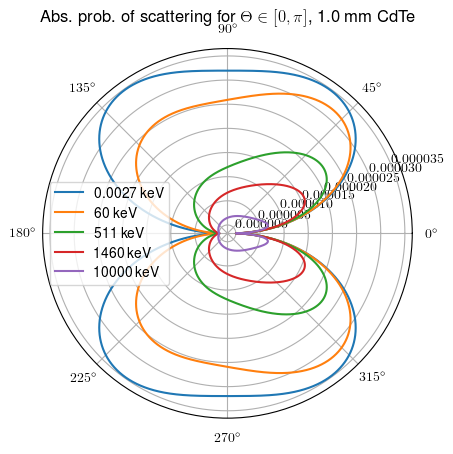
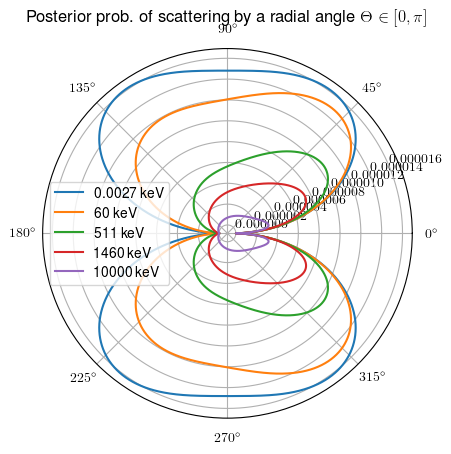
moer probabilities

diff --git a/thesis/main.tex b/thesis/main.tex
@@ -141,15 +141,15 @@ The differential of the impact cross section is
 \end{equation}
 
 \begin{equation}
-  \Omega\left(r, \Theta\right) = \int_0^\Theta 2\pi r\,cos\left(\theta\right)\,r\,d\theta = \left[-2\pi r^2\,sin\left(\theta\right)\right]_0^\Theta = 2\pi r^2 - 2\pi r^2cos\left(\Theta\right)
+  \Omega\left(r, \Theta\right) = \int_0^\Theta 2\pi r\,\cos\theta\,r\,d\theta = \left[-2\pi r^2\,\sin\theta\right]_0^\Theta = 2\pi r^2 - 2\pi r^2\cos\Theta
 \end{equation}
 The differential of the area is
 \begin{equation}
-  d\Omega\left(\theta\right) = \frac{\partial \Omega}{\partial r}\,dr + \frac{\partial \Omega}{\partial \theta}\,d\theta = -4\pi r\,cos\left(\theta\right)dr + 4\pi r\,dr + 2\pi r^2sin\left(\theta\right)d\theta
+  d\Omega\left(\theta\right) = \frac{\partial \Omega}{\partial r}\,dr + \frac{\partial \Omega}{\partial \theta}\,d\theta = -4\pi r\,\cos\theta\,dr + 4\pi r\,dr + 2\pi r^2\sin\theta\,d\theta
 \end{equation}
 In the case of a unit sphere, the differential of the area becomes
 \begin{equation}
-  d\Omega(\theta) = 2\pi r^2sin\left(\theta\right)d\theta.
+  d\Omega(\theta) = 2\pi r^2\sin\theta\,d\theta.
 \end{equation}
 
 \begin{figure}[ht]
@@ -172,38 +172,65 @@ In the case of a unit sphere, the differential of the area becomes
 
 %%}
 
-The ratio of the energy of incoming ($E_{0}$) and scattered ($E_{s}$) particles was observed and described by Compton as
+The ratio $E_r$ of the energy of incoming ($E_{0}$) and scattered ($E_{s}$) particles was observed and described by Compton as
 \begin{equation}
-  P\left(\theta\right) = \frac{E_{s}\left(\theta\right)}{E_{0}} = \frac{1}{1 + \frac{E_0}{m_ec^2}\left(1 - cos\left(\theta\right)\right)},
+  E_r\left(\theta, E_0\right) = \frac{E_s\left(\theta, E_0\right)}{E_{0}} = \frac{1}{1 + \frac{E_0}{m_ec^2}\left(1 - \cos\theta\right)},
 \end{equation}
-where $\theta \in \left[0, \pi\right]$ is the radial angle at which the photons are scattered, $E_0, E_s$ $\left[\mathrm{J}\right]$ are the energies of the incoming and scattered photons, \unit{m_e \approx 9.10 \times 10^{-31}}{kg} is the invariant mass of the electron, \unit{c \approx 2.99 \times 10^{8}}{ms^{-1}} is the speed of light in vacuum.
+where $\theta \in \left[-\pi, \pi\right)$ is the radial angle at which the photons are scattered, $E_0, E_s$ $\left[\mathrm{J}\right]$ are the energies of the incoming and scattered photons, \unit{m_e \approx 9.10 \times 10^{-31}}{kg} is the invariant mass of the electron, \unit{c \approx 2.99 \times 10^{8}}{ms^{-1}} is the speed of light in vacuum.
 
 The Klein-Nishina formula \cite{leo2012techniques} describes the differential cross section of the incident and scattered beam as
 \begin{equation}
-  \frac{d\sigma}{d\Omega}\left(\theta\right) = \frac{1}{2}\,r_{e}^2\,P\left(\theta\right)^2\left(P\left(\theta\right) + \frac{1}{P\left(\theta\right)} - sin\left(\theta\right)^2\right),
+  \frac{d\sigma}{d\Omega}\left(\theta\right) = \frac{1}{2}\,r_{e}^2\,E_r\left(\theta\right)^2\left(E_r\left(\theta\right) + \frac{1}{E_r\left(\theta\right)} - \sin^2\theta\right),
 \end{equation}
 where \unit{r_e \approx 2.81 \times 10^{-15}}{m} is the classical electron radius.
-The intensity of the scattered beam \unit{N_s}{\left[s^{-1}\right]} is calculated for the finite area \unit{\Delta \theta}{\left[sr\right]} as
+
+% The intensity of the scattered beam \unit{N_s}{\left[s^{-1}\right]} is calculated for a small finite solid angle \unit{\Delta \theta}{\left[sr\right]} as
+% \begin{equation}
+%   N_s = N_o\,\frac{d\sigma}{d\Omega}\left(\theta\right)\,n_e\,t\,\Delta\theta,
+% \end{equation}
+% where \unit{N_0}{\left[s^{-1}\right]} is the intensity of the incoming beam, \unit{n_e}{\left[m^{-3}\right]} is the electron density of the scattering material and \unit{t}{\left[m\right]} is the effective thickness of the scattering material.
+
 \begin{equation}
-  N_s = N_o\,\frac{d\sigma}{d\Omega}\left(\theta\right)\,n_e\,T\,\Delta\Omega,
+  \sigma = \oint_{4\pi} \frac{d\sigma}{d\Omega}\,d\Omega = \int_0^{2\pi} \int_0^{\pi} \frac{d\sigma}{d\Omega}\sin\theta\,d\theta\,d\phi,
 \end{equation}
-where \unit{N_0}{\left[s^{-1}\right]} is the intensity of the incoming beam, \unit{n_e}{\left[m^{-3}\right]} is the electron density of the scattering material and \unit{T}{\left[m\right]} is the effective thickness of the scattering material.
+
+Photon attenuation, i.e., the decrease of the intensity $d\Phi$ of an incident beam with original flux $\Phi \left[\mathrm{s}^{-1}\right]$ is described as
+\begin{equation}
+  \frac{d\Phi}{dz} = -n\sigma\Phi
+\end{equation}
+where $dz$ is the thickness of the blocking material, \unit{n_e}{\left[m^{-3}\right]} is the electron density of the scattering material and $\sigma \left[\mathrm{m}^{2}\right]$ is the total cross section of the interaction.
+By solving the differential equation, we obtain a relationship between the initial flux $\Phi$ and the remaining flux $\Phi_{out}$ behind the object with the thickness $z$:
+\begin{equation}
+  \Phi_{out} = \Phi e^{-n\sigma z}.
+\end{equation}
+This the probability of a Compton scattering $\mathrm{P}\left(c\right)$ is modeled as
+\begin{equation}
+  \mathrm{P}\left(c\right) = 1 - e^{-n\sigma z}.
+\end{equation}
+
+\begin{equation}
+  \mathrm{P}\left(\theta \mid c\right) = \frac{\int_0^\pi \frac{d\sigma}{d\Omega}\,\sin \theta\,d\phi}{\sigma}
+\end{equation}
+
+\begin{equation}
+  \mathrm{P}\left(c \mid \theta\right) = \mathrm{P}\left(\theta \mid c\right) \mathrm{P}\left(c\right) = \left(1 - e^{-n\sigma z}\right) \frac{\int_0^\pi \frac{d\sigma}{d\Omega}\,\sin \theta\,d\phi}{\sigma}
+\end{equation}
 
 \begin{figure}[ht]
   \centering
   \begin{subfigure}{0.32\textwidth}
     \includegraphics[width=1.0\textwidth]{./fig/klein_nishina_1.png}
-    \caption{Plots of the differential cross section for various photon energy as a factor of the classical electron radius $r_e$.}
+    \caption{Plots of the differential $d\sigma/d\Omega$ cross section for various photon energies.}
     \label{fig:klein_1}
   \end{subfigure}
   \begin{subfigure}{0.32\textwidth}
     \includegraphics[width=1.0\textwidth]{./fig/klein_nishina_2.png}
-    \caption{Plots of absolute probability of scattering under radial angle $\theta$, integrated over azimuthal angle $\phi$.}
+    \caption{Plots of posterior probability $\mathrm{P}\left(E_0 \mid \theta\right)$, integrated over azimuthal angle $\phi$.}
     \label{fig:klein_2}
   \end{subfigure}
   \begin{subfigure}{0.32\textwidth}
     \includegraphics[width=1.0\textwidth]{./fig/klein_nishina_3.png}
-    \caption{Plots of marginalized probability of scattering under radial angle $\theta$, integrated over azimuthal angle $\phi$.}
+    \caption{Plots of likelihood probability $\mathrm{P}\left(\theta \mid E_0\right)$, integrated over azimuthal angle $\phi$.}
     \label{fig:klein_3}
   \end{subfigure}
   \caption{Plots of the Klein-Nishina differential cross section (\ref{fig:klein_1}), the cross section normalized by the total cross section (\ref{fig:klein_2}) and the resulting probability distribution (\ref{fig:klein_3}) invariant on the radial angle $\phi$.}

diff --git a/misc/klein_nishina/main.py b/misc/klein_nishina/main.py
@@ -182,7 +182,7 @@ for energy_idx,energy in enumerate(E_0):
 # convert to abs. prob
 for energy_idx,energy in enumerate(E_0):
 
-    total_prob = 1 - np.exp(-CdTe_e_density * total_cross_section[energy_idx] * thickness)
+    total_prob = 1 - np.exp(-Si_e_density * total_cross_section[energy_idx] * thickness)
     abs_prob[energy_idx] = [x*total_prob for x in sigma_normalized[energy_idx]]
 
 sigma_marginalized = [[x/total_cross_section[sublist_idx] for x in sublist] for sublist_idx,sublist in enumerate(sigma_normalized)]
@@ -202,39 +202,54 @@ for energy_idx,energy in enumerate(E_0):
 
 def plot_everything(*args):
 
+    multiplot = False
+
     fig = plt.figure(1)
     fig.canvas.set_window_title("1")
-    ax = plt.subplot(131, projection='polar')
+    if multiplot:
+        ax = plt.subplot(131, projection='polar')
+    else:
+        ax = plt.subplot(111, projection='polar')
     for energy_idx,energy in enumerate(E_0):
       ax.plot(angles, klein_nishina[energy_idx], label="{} keV".format(E_0_keV[energy_idx]))
     ax.legend()
     ax.grid(True)
     plt.title("Compton scattering diff. cross section for $\Theta \in [0, \pi]$".format())
     plt.savefig("klein_nishina_1.png", bbox_inches="tight")
+    # if not multiplot:
+    #     plt.show()
 
-    # fig = plt.figure(2)
-    ax = plt.subplot(132, projection='polar')
+    if multiplot:
+        ax = plt.subplot(132, projection='polar')
+    else:
+        fig = plt.figure(2)
+        ax = plt.subplot(111, projection='polar')
     for energy_idx,energy in enumerate(E_0):
       ax.plot(angles, abs_prob[energy_idx], label="{} keV".format(E_0_keV[energy_idx]))
     ax.grid(True)
     ax.legend()
-    plt.title('Abs. prob. of scattering for $\Theta \in [0, \pi]$, {} mm CdTe'.format(thickness*1000))
+    plt.title('Posterior prob. of scattering by a radial angle $\Theta \in [0, \pi]$'.format())
     plt.savefig("klein_nishina_2.png", bbox_inches="tight")
+    # if not multiplot:
+    #     plt.show()
 
-    # fig = plt.figure(3)
-    ax = plt.subplot(133, projection='polar')
+    if multiplot:
+        ax = plt.subplot(133, projection='polar')
+    else:
+        fig = plt.figure(3)
+        ax = plt.subplot(111, projection='polar')
     for energy_idx,energy in enumerate(E_0):
       ax.plot(angles, sigma_normalized[energy_idx], label="{} keV".format(E_0_keV[energy_idx]))
     ax.grid(True)
     ax.legend()
-    plt.title('Marginalized prob. for radial angle $\Theta \in [0, \pi]$, {} mm CdTe'.format(thickness*1000))
+    plt.title('The likelihood of scattering by a radial angle $\Theta$, {} mm Si'.format(thickness*1000))
     plt.savefig("klein_nishina_3.png", bbox_inches="tight")
     plt.show()
 
 for energy_idx,energy in enumerate(E_0_keV):
     print("")
     print("total_cross_section[energy_idx]: {0:1.2f} re^2".format(total_cross_section[energy_idx]/m.pow(r_e, 2)))
-    prob = 1 - np.exp(-CdTe_e_density * total_cross_section[energy_idx] * thickness)
+    prob = 1 - np.exp(-Si_e_density * total_cross_section[energy_idx] * thickness)
     # prob = CdTe_e_density * total_cross_section[energy_idx] * thickness
     print("{0:2.5f}% of photons are scattered for {1:6.1f} keV".format(prob, energy))
 
